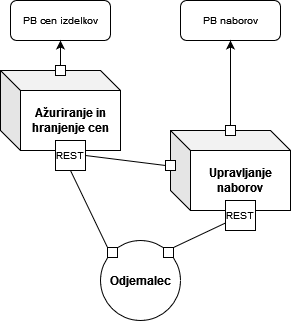
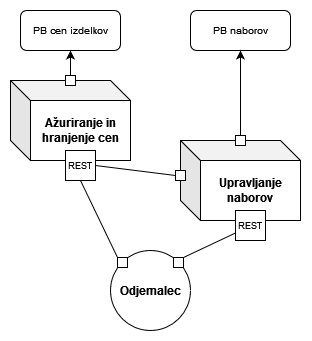
Posodobljena dokumentacija ob mejniku 1 glede na spremembe med implementacijo osnovnih funkcionalnosti mikrostoritev.

Changed region(s): [[0.2165, 0.0, 1.0, 1.0], [0.0, 0.0, 0.433, 0.5296]]

diff --git a/README.md b/README.md
@@ -1,9 +1,9 @@
 # Primerjalnik cen izdelkov
 **Avtor**: Mihael Rajh (skupina 72)
 
-**Opis projekta**: Namen izdelane aplikacije je primerjava cen izdelkov med različnimi trgovinami. Uporabnikom med drugim omogoča izbiro priljubljenih izdelkov in sestavo poljubnih košaric oziroma naborov izdelkov. Cene se lahko primerjajo bodisi za posamezen izdelek, ali pa košaric v celoti.
+**Opis projekta**: Namen izdelane aplikacije je primerjava cen izdelkov med različnimi trgovinami. Uporabnikom med drugim omogoča izbiro priljubljenih izdelkov in sestavo poljubnih košaric oziroma naborov izdelkov. Cene se lahko primerjajo bodisi za posamezen izdelek, ali pa za košarice v celoti.
 
-**Razvojno okolje**: Pri izdelavi projekta je bilo uporabljeno ogrodje KumuluzEE v povezavi z JDK, Apache Maven in Docker tehnologijo. Za razvoj so bili uporabljeni IDE IntelliJ IDEA Ultimate, GitHub Actions in Postman.
+**Razvojno okolje**: Pri izdelavi projekta je bilo uporabljeno Javansko ogrodje KumuluzEE, Apache Maven in Docker tehnologija. Pri razvoju so bili uporabljeni IDE IntelliJ IDEA Ultimate, Docker Desktop in Postman. Za namestitev so bili uporabljeni GitHub Actions, Docker Hub in Microsoft Azure.
 
 
 
@@ -16,18 +16,22 @@
 | Mikrostoritev        | Ažuriranje in hranjenje cen                                  |
 | -------------------- | ------------------------------------------------------------ |
 | Opis funkcionalnosti | Primarni cilj mikrostoritve je hranjenje cen izdelkov v podatkovni bazi in strežba podatkov aplikacijam, ki te informacije potrebujejo. Sekundarni cilj mikrostoritve je iskanje in posodabljanje cen glede na ažurno stanje izbranih trgovinskih spletnih strani. |
+| GitHub               | [mtn-rso-price-compare/price-updater](https://github.com/mtn-rso-price-compare/price-updater) |
+| Docker Hub           | [mikethenut/price-updater](https://hub.docker.com/repository/docker/mikethenut/price-updater) |
 | Odvisnosti           | /                                                            |
 | Metrike              |                                                              |
-| API vmesnik          | */item*: Podatki o cenah vseh izdelkov v bazi (**GET**).<br>*/item/{itemId}*: Podatki o cenah artikla {itemId} (**GET**).<br>*/store*: Podatki o vseh trgovinah v bazi (**GET**).<br>*/store/{storeId}*: Podatki o trgovini {storeId} in njihovih izdelkih (**GET**).<br>*/request*: Ukazi za takojšnje ažuriranje cen (**GET, POST**).<br>*/request/{requestId}*: Podatki o izvedbi ukaza za ažuriranje cen (**GET, DELETE**). |
+| API vmesnik          | */item*: Podatki o vseh izdelkih v bazi (**GET**).<br>*/item/{itemId}*: Podatki o cenah artikla {itemId} (**GET**).<br>*/store*: Podatki o vseh trgovinah v bazi (**GET**).<br>*/store/{storeId}*: Podatki o trgovini {storeId} in njihovih izdelkih (**GET**).<br>*/request*: Ukazi za takojšnje ažuriranje cen (**GET, POST**).<br>*/request/{requestId}*: Podatki o izvedbi ukaza za ažuriranje cen (**GET**). |
 
 
 
 | Mikrostoritev        | Upravljanje naborov                                          |
 | -------------------- | ------------------------------------------------------------ |
 | Opis funkcionalnosti | Mikrostoritev je namenjena hranjenju podatkov o naborih izdelkov uporabnika, imenovani košarice. Hrani tudi podake o kategorijah izdelkov, ki predstavljajo ločeno vrsto naborov. Mikrostoritev omogoča poizvedbe za celotne nabore glede na cene, ki jih vrača Ažuriranje in hranjenje cen. |
+| GitHub               | [mtn-rso-price-compare/collection-manager](https://github.com/mtn-rso-price-compare/collection-manager) |
+| Docker Hub           | [mikethenut/collection-manager](https://hub.docker.com/repository/docker/mikethenut/collection-manager) |
 | Odvisnosti           | Ažuriranje in hranjenje cen (mikrostoritev)                  |
 | Metrike              |                                                              |
-| API vmesnik          | */collection*: Podatki o vseh nakupovalnih seznamih (**GET, POST**).<br>*/collection/{collectionId}*: Podatki o nakupovalnem seznamu {collectionId} (**GET, PUT, DELETE**).<br>*/tag*: Seznam vseh oznak izdelkov v bazi (**GET, POST**).<br/>*/tag/{tagId}*: Podatki o izdelkih z oznako {tagId} (**GET, PUT, DELETE**). |
+| API vmesnik          | */collection*: Podatki o vseh nakupovalnih seznamih (**GET, POST**).<br>*/collection/{collectionId}*: Podatki o nakupovalnem seznamu {collectionId} (**GET, POST, PUT, DELETE**).<br>*/collection/{collectionId}/{itemId}*: Izdelek {itemId} na nakupovalnem seznamu {collectionId} (**DELETE**).<br>*/tag*: Seznam vseh oznak izdelkov v bazi (**GET, POST**).<br>*/tag/{tagId}*: Podatki o izdelkih z oznako {tagId} (**GET, POST, PUT, DELETE**).<br>*/tag/{tagId}/{itemId}*: Izdelek {itemId} z oznako {tagId} (**DELETE**). |
 
 
 
@@ -41,6 +45,8 @@
 - Uporabniki lahko primerjajo skupno ceno svojih priljubljenih izdelkov med trgovinami.
 
 ### Primer napredne uporabe
+
+Uporabnik želi dodati predmet iz določene kategorije na svoj nakupovalni seznam. Najprej zahteva pregled izdelkov iz določene kategorije, ki jih vrne mikrostoritev `Upravljanje naborov`. Nato enega izmed izdelkov doda na svoj seznam, pri čemer najprej `Upravljanje naborov` shrani spremembo, nato pa od mikrostoritve `Ažuriranje in hranjenje cen` zahteva cene vseh izdelkov na seznamu. S tem potrdi obstoj dodanega izdelka, hkrati pa lahko uporabniku vrne podatke o cenah za celoten seznam.
 
 ![Sequence diagram](figures/Sequence_diagram.png)
 
@@ -75,13 +81,15 @@
 }
 ```
 
+Atribut 'price' je privzeto vrnjen le za zahtevke na določen item ID.
+
 #### /store
 
 ```json
 {
     store_id:1,
     store_name:"ENGROTUŠ d.o.o.",
-    link:"https://www.tus.si"
+    url:"https://www.tus.si"
     price: [
     	{
     		item_id:36,
@@ -97,12 +105,14 @@
 }
 ```
 
+Atribut 'price' je privzeto vrnjen le za zahtevke na določen store ID.
+
 #### /request
 
 ```json
 {
 	request_id:7,
-	status:"COMPLETED",
+	status:"SUCCESS",
 	last_updated:"2022-11-13T12.05"
 }
 ```
@@ -132,15 +142,15 @@
 ```json
 {
     id:3,
-    name:"Meso in mesni izdelki",
+    tag_name:"Meso in mesni izdelki",
     item: [
         {
     		id:36
-    		name:"piščančje prsi"
+    		item_name:"piščančje prsi"
         },
         {
             id:25,
-            name:"svinjska rebra"
+            item_name:"svinjska rebra"
         }
     ]
 }
